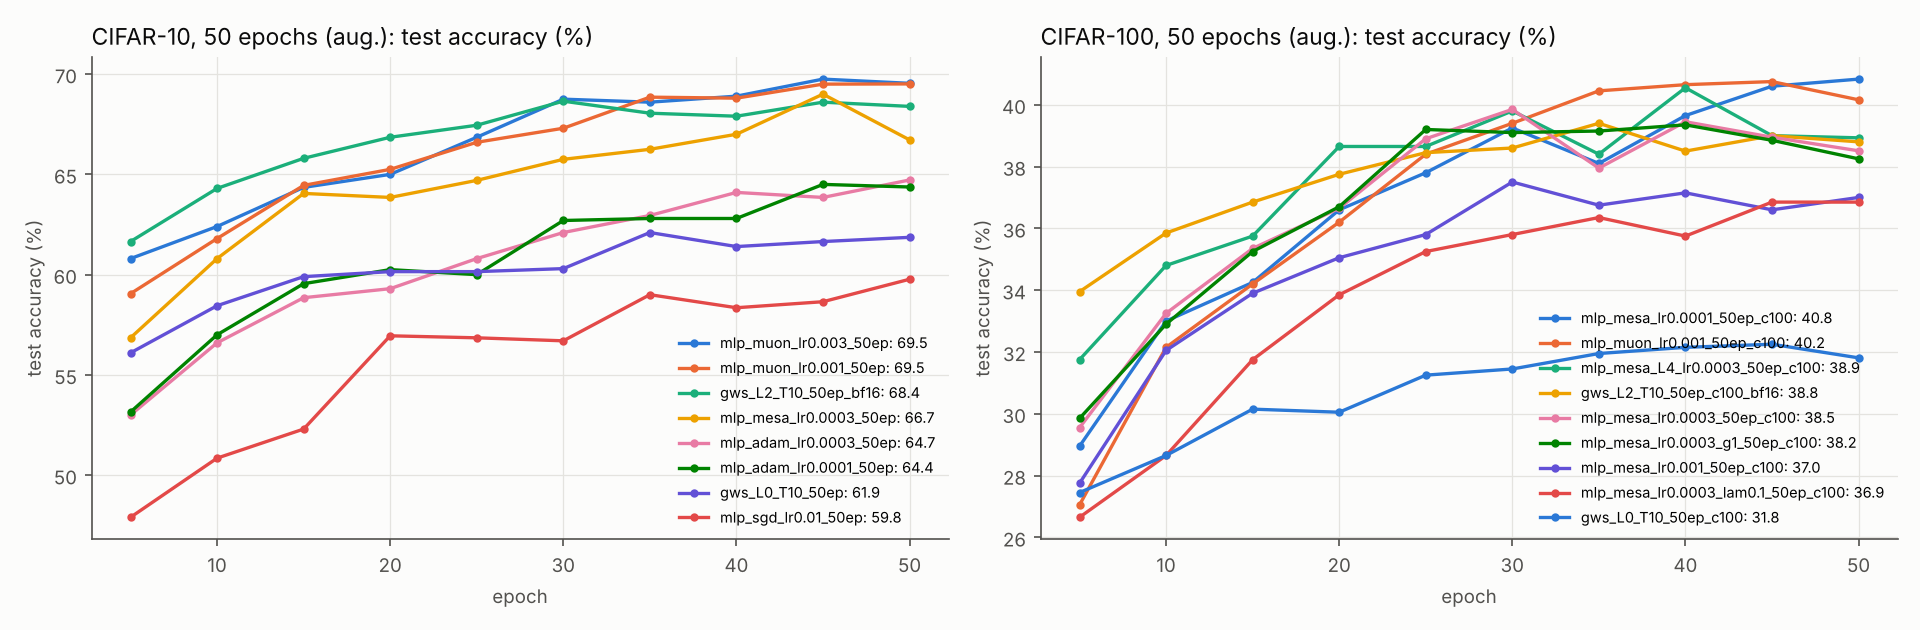
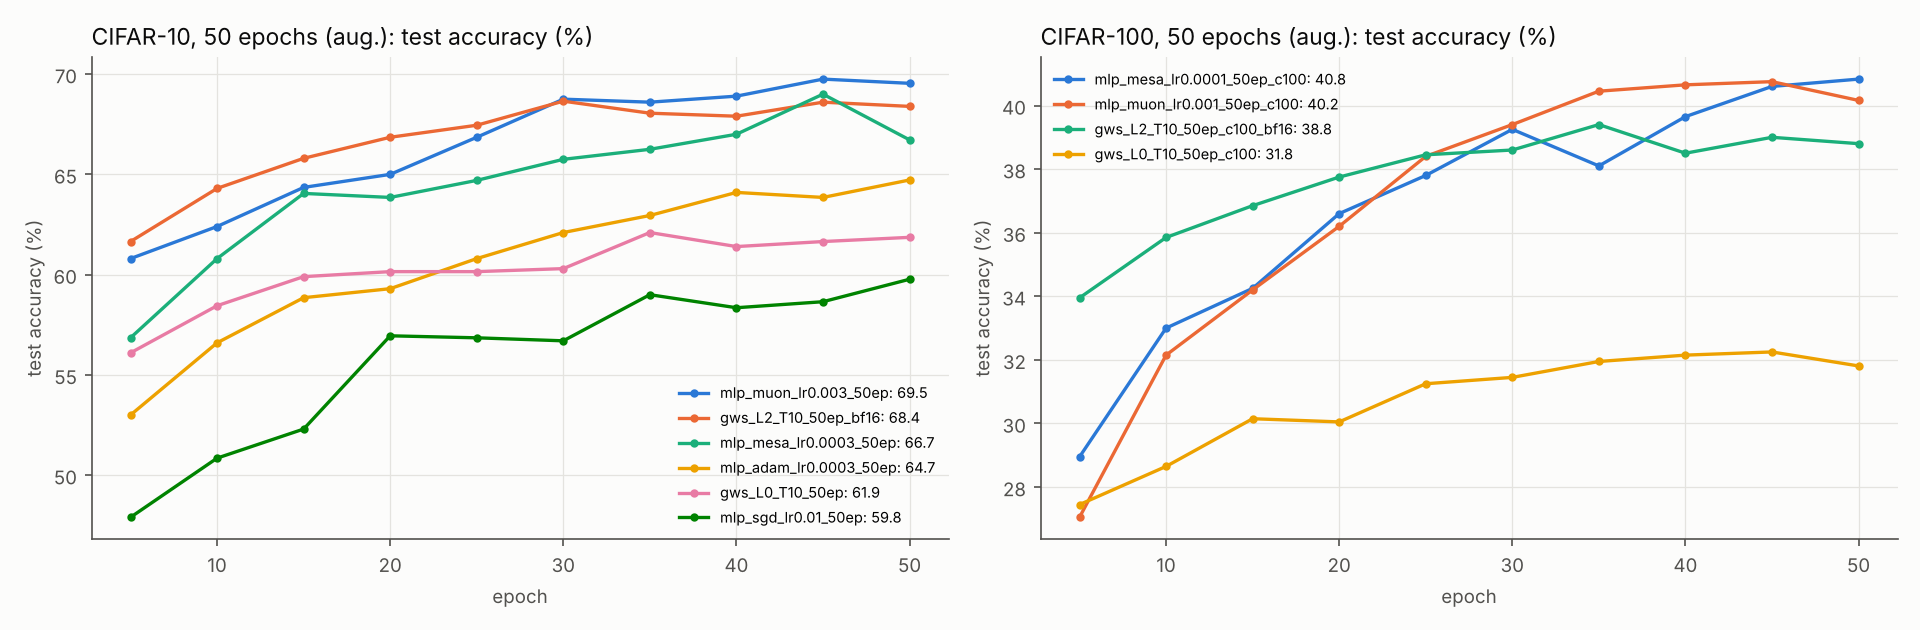
Report: final third-round results (tau = 35 grid complete, CIFAR-100 tuning, second Fig. 5 rate, molab ledger)
Claude-Session: https://claude.ai/code/session_01RLNGfWX7myMbpBLDNmpMEp

diff --git a/experiments/plots.py b/experiments/plots.py
@@ -228,6 +228,12 @@ def fig_multi_epoch(runs, out):
   fig, axes = new_fig(6.4 * len(panels), 4.2, ncols=len(panels))
   for ax, (title, keys) in zip(np.atleast_1d(axes), panels):
     best = {k: max(runs[k], key=lambda r: r['final_test_acc']) for k in keys}   # gws_L0_T10_50ep: eta 1 and 0.003 runs
+    method = lambda k: '_'.join(k.split('_')[:2])          # mlp_mesa, mlp_muon, gws_L2, ...: one curve per method
+    top = {}
+    for k in keys:
+      if method(k) not in top or best[k]['final_test_acc'] > best[top[method(k)]]['final_test_acc']:
+        top[method(k)] = k
+    keys = list(top.values())                              # tuning runs: docs/REPRODUCTION.md tables
     for c, k in zip(SERIES * 2, sorted(keys, key=lambda k: -best[k]['final_test_acc'])):
       r = best[k]
       spe = 781

diff --git a/docs/REPRODUCTION.md b/docs/REPRODUCTION.md
@@ -24,17 +24,17 @@ Budget: 12 GPU-hours on Colab (L4 and A100-40GB) plus a 4-core CPU; 11.87 hours 
 | 8 | Single pass on CIFAR-10: GWS 59.4 ± 0.4, RBF 58.8 ± 0.2, gauge 58.4 ± 0.4; all above Muon, Adam, SGD, Mesa, Delta (Fig. 2 right, App. F.2) | Reproduced: 59.41 ± 0.22, 59.10 ± 0.62, 58.62 ± 0.44; best baseline Muon 57.41 ± 0.52 | §4 |
 | 9 | Kernel ridge regression (~58.5) and kNN (~35.5) on pixels (Fig. 2 right) | Reproduced (58.55, 35.64); GWS is only 0.9 points above exact kernel ridge regression | §6 |
 | 10 | Teacher-student: GWS far below the parametric softmax; MLP student best (Fig. 3) | Reproduced at the paper's endpoint (200k steps): MLP 1.81e-4 < GWS 1.99e-4 < parametric softmax 1.95e-3 (paper ~1.7e-4 / ~2.6e-4 / ~4e-3). Nuance: the parametric softmax is the best student up to ~80k steps (1.9e-4), then degrades without a learning-rate schedule | §7.3 |
-| 11 | 50 epochs: GWS and RBF beat Adam/AdamW/RMSprop/SGD, below Muon; Mesa best on CIFAR-100 (Fig. 2 left) | Partly. Baselines reproduce (CIFAR-10: Muon 69.5, Mesa 66.7, Adam 64.7, SGD 59.8; CIFAR-100: Muon 40.2). GWS at L = 0 (61.9) beats SGD only; L = 2 at 50 epochs needs about 154 GB, but at equal 10 epochs GWS L = 2 (65.1) beats Muon (62.2) and Adam (56.9). Not reproduced: Mesa (38.5) is 1.7 points below Muon on CIFAR-100 at one setting | §7.2, §7.4 |
+| 11 | 50 epochs: GWS and RBF beat Adam/AdamW/RMSprop/SGD, below Muon; Mesa best on CIFAR-100 (Fig. 2 left) | Reproduced for GWS and Mesa. CIFAR-10: GWS at the paper's depth (L = 2, bf16 tables) reaches 68.39%, above Adam (64.7), Mesa (66.7) and SGD (59.8), below Muon (69.5). CIFAR-100: GWS L = 2 38.80% (paper ~39.1); after tuning on the paper's grid, Mesa 40.83% > Muon 40.16% (one seed, margin 0.7 points). Not run: RBF at L = 2 for 50 epochs (the bf16 path does not support RBF distances), AdamW and RMSprop at 50 epochs | §7.4 |
 | 12 | Training loss falls much faster for GWS and RBF (Fig. 2 middle) | Reproduced for L = 2 (online loss 0.75 after 10 epochs; Muon 1.12, Adam 1.31) and in one pass (1.20 against Muon 1.26) | §7.4, figure |
 | 13 | Depth helps up to 2 hidden layers; temperature effect is non-monotonic (Fig. 4 left) | Reproduced. Depth: one pass 53.5 / 58.5 / 59.4, 10 epochs 58.6 / 63.8 / 65.1 for L = 0 / 1 / 2. Temperature (L = 0, 10 epochs): 53.5 / 58.6 / 51.3 for T = 3 / 10 / 30 | §5.1, §7.4 |
 | 14 | Linearizing exp after training causes a large drop (Fig. 4 right) | Reproduced: 61.9 → 15.9 (50 epochs, L = 0); 21-24% at every depth after 10 epochs | §7.2, §7.4 |
 | 15 | The parametric softmax overfits with a widening gap; GWS does not (Fig. 5) | Reproduced at 1/10 of the data with the paper's ratios (keys = GWS database size, 2,000 vs 50 epochs): the parametric model's test accuracy peaks at 43.3% (12.5% of training) and falls to 39.8% while its train accuracy rises to 93%; GWS ends at its best, 49.3%. Full scale, 50 epochs: GWS 61.9 vs 49.1. As in the paper's own figure, GWS also has a large final train-test gap; the claim holds in the sense that its test accuracy does not fall. Learned weights make the parametric model diverge (as the paper reports) | §7.7 |
 | 16 | ViT with GWS FFNs beats the parametric ViT after one epoch: 54.4 vs 48.4 (Sec. 5) | Reproduced: 55.24 at the first setting and 58.41 at the best of four (all four 52.5-58.4) vs 49.62 for the best standard ViT; needed an exact two-call FlashAttention form because PyTorch's fused attention backward slows 50 times at 2^21 keys | §5.3 |
-| 17 | The hybrid layer keeps accuracy with sublinear growth (Fig. 6) | Reproduced: capacities within 4 points of the paper at every τ; accuracy within 1.2 points for τ ≥ 50 with the notebook setting (two seeds at τ = 50: 56.2, 56.5). At τ = 35 the notebook setting fails (49.5, 44.3), but the paper's per-τ tuning grid gives 58.25% at 89.2% of the rows (paper ~58.6% at ~88%) | §5.2 |
+| 17 | The hybrid layer keeps accuracy with sublinear growth (Fig. 6) | Reproduced: capacities within 4 points of the paper at every τ; accuracy within 1.2 points for τ ≥ 50 with the notebook setting (two seeds at τ = 50: 56.2, 56.5). At τ = 35 the notebook setting fails (49.5, 44.3), but the paper's per-τ tuning grid (27 settings) gives 58.29% at 89.0% of the rows (paper ~58.6% at ~88%) | §5.2 |
 | 18 | DeltaNet decay improves a 10-layer MLP over 2,000 epochs: 74% vs 67% (App. E.3.1) | Reproduced: λ = 1e-5 reaches 74.0% (final 73.7%) against 68.3% for plain SGD; all five decay rates of the paper's figure match it within about 1-2 points in test and train accuracy | §7.8 |
 | 19 | Article: plateau grows with N; growing RBF and wide Cos-Bochner shorten it "drastically"; Cos-Bochner improves with width, matching growing RBF; GeGLU has a lower ceiling | Reproduced (minimal version, 2-layer transformer): the plateau grows 4-7 times for 4 times more individuals; the growing RBF layer (η = 10) reaches 90% of the facts 3.8 times sooner than GeGLU-4096 and ends at 99.7% against 82-92% for GeGLU; Cos-Bochner improves monotonically with width (66% → 99% final, escape 5,500 → 2,500 steps) and matches the RBF layer at width 65,536. The onset of learning moves 35-45% earlier, so "drastic" applies to the time to knowledge more than to the onset | §7.5 |
 | 20 | Article: fine-tuning on new individuals makes FFNs forget; "in the fine-tuning setting, the RBF, and also the Cos Bochner, seem to do better than the GeGLU"; RCDL layers "can 'unforget' without replay" (no numbers given) | Reproduced (qualitative, as stated): all variants forget (old facts 99.6% → 16-30%); after 4,000 steps RBF and Cos-Bochner keep 2.5 and 1.9 times as many old facts as GeGLU (38.4% and 29.9% against 15.5%); only the growing RBF layer recovers old facts without replay (30.1% after 250 steps → 38.4% after 4,000). The recovery is small | §7.5 |
-| 21 | Article: RCDL matches but does not beat strong baselines, at much higher cost | Supported for multi-epoch training (400 times the memory, 7.6 points below Muon at L = 0). In one pass GWS is 2 points above Muon at 10 times the memory | §7.6 |
+| 21 | Article: RCDL matches but does not beat strong baselines, at much higher cost | Supported. Multi-epoch: at L = 0, 7.6 points below Muon with 400 times the memory; at the paper's depth (L = 2), 1.1 points below Muon (68.4 vs 69.5) with 77 GB of stored rows in bf16 against 75 MB of MLP weights (about 1,000 times). In one pass GWS is 2 points above Muon at 10 times the memory | §7.6 |
 
 ## 1. How to run
 
@@ -165,14 +165,17 @@ The capacities match the paper within 4 points at every τ, so the growth rule i
 
 | T, β \ Adam rate | 3e-4 | 1e-3 | 3e-3 |
 |---|---|---|---|
-| T = 5, β = 30 | **58.25** (89.2% of rows) | 49.47 / 44.32 (notebook setting, seeds 1 / 2) | 25.60 |
+| T = 5, β = 60 | **58.29** (89.0% of rows) | 57.05 (89.9%) | 46.99 |
+| T = 5, β = 30 | 58.25 (89.2%) | 49.47 / 44.32 (notebook setting, seeds 1 / 2) | 25.60 |
 | T = 5, β = 10 | 55.60 | 53.73 | 23.58 |
+| T = 10, β = 60 | 55.39 (88.7%) | 53.83 | 50.95 |
 | T = 10, β = 30 | 54.73 (88.7%) | 53.76 | 50.85 |
 | T = 10, β = 10 | 53.29 | 52.86 | 12.17 |
+| T = 1, β = 60 | 18.44 | 20.95 | 20.45 |
 | T = 1, β = 30 | 21.10 | 21.76 | 18.24 |
 | T = 1, β = 10 | 28.39 | 25.85 | 19.79 |
 
-With the paper's tuning, τ = 35 reaches **58.25% at 89.2% of the rows**, against the paper's ~58.6% at ~88%. The Adam rate of the trained keys, values and weights decides the result: at T = 5, β = 30, the rate 3e-4 gives 58.25% and the notebook's 1e-3 gives 44-49%. T = 1 fails at every rate (training loss 11-43). The β = 60 row ran on molab after this table was written (see the results files).
+With the paper's full tuning grid (27 settings, 26 run here plus the notebook setting from above), τ = 35 reaches **58.29% at 89.0% of the rows** (T = 5, β = 60, Adam 3e-4), against the paper's ~58.6% at ~88%. Two settings are within 0.04 points of each other (β = 30 and 60 at T = 5, Adam 3e-4). The Adam rate of the trained keys, values and weights decides the result: at T = 5, β = 30, the rate 3e-4 gives 58.25% and the notebook's 1e-3 gives 44-49%. T = 1 fails at every rate (training loss 11-43). One seed per setting, so the best of 27 is an optimistic estimate, as is the paper's.
 
 
 ### 5.3 ViT with growing FFN layers (paper Sec. 5, App. E.9)
@@ -299,12 +302,18 @@ CIFAR-100, 50 epochs (second A100 session, TF32; one setting per method):
 
 | Model | Test acc (%) | Paper (Fig. 2 left, CIFAR-100 panel, read off plot) |
 |---|---|---|
-| MLP + Muon, lr 1e-3 | **40.16** | ~39.2 |
-| MLP + Mesa, lr 3e-4 | 38.51 | ~40.4 (best in the paper) |
+| MLP + Muon, lr 1e-3 | 40.16 | ~39.2 |
+| MLP + Muon, lr 3e-3 (third round) | 38.94 | |
+| MLP + Mesa, lr 3e-4 (γ = 0.99, λ = 0.01) | 38.51 | ~40.4 (best in the paper) |
+| MLP + Mesa, lr 1e-4 (third round) | **40.83** | |
+| MLP + Mesa, lr 1e-3 (third round) | 37.00 | |
+| MLP + Mesa, lr 3e-4, γ = 1 (third round) | 38.25 | |
+| MLP + Mesa, lr 3e-4, λ = 0.1 (third round) | 36.85 | |
+| MLP + Mesa, lr 3e-4, L = 4 (third round) | 38.93 | |
 | GWS, L = 0, T = 10 | 31.81 (linearized: 2.92) | ~39.1 for L = 2 |
 | GWS, L = 2, T = 10 (bf16 tables, third round) | 38.80 (linearized: 3.20) | ~39.1 |
 
-The paper's claim that Mesa is best on CIFAR-100 does not hold at these settings: Muon is 1.65 points ahead. The paper tuned Mesa over learning rate, γ and λ; this run uses one setting.
+With one Mesa setting (second round), Muon was 1.65 points ahead. The third round tuned both on the paper's grids (Mesa: 5 more settings over the rate, γ, λ and depth; Muon: one more rate, molab GPU): the best Mesa (Adam 1e-4, 40.83%) is then 0.67 points above the best Muon (40.16%), so the paper's ordering on CIFAR-100 holds after tuning. One seed per setting, and the margin is small: the paper reports 40.4 against 39.2.
 
 Findings:
 - The Muon, Adam, Mesa and SGD baselines reproduce the paper's CIFAR-10 values (69.5, 64.7, 66.7 and 59.8% against about 69.5, 65, 67.8 and 61).
@@ -442,7 +451,7 @@ Findings:
 
   At 50 epochs the parametric model is still underfitting (train 52%) and its test accuracy is still rising; the gap is 3 points. The paper's widening gap appears after much longer training (2,000 epochs, 40 times this run, about 22 A100-hours at this table size). GWS is 12.8 points ahead on test accuracy and fits much faster, as claimed; its own gap (20 points) is larger, as is the gap in the paper's own figure (about 26 points).
 
-**Fig. 5 with the paper's ratios at 1/10 of the data (third round, `overfit_fig5_scaled.json`).** The paper's full-scale parametric model (2.56M trained keys of width 3,072) needs about 126 GB for parameters, gradients and Adam state. This version keeps the paper's two ratios on the first 5,000 training images: the parametric softmax has as many trained keys as the GWS database holds after 50 epochs (249,664, about 50 per image, as in the paper), and it trains for 2,000 epochs against 50 for GWS. Plain softmax (fixed equal weights), T = 1, Adam 3e-3 (the low end of the paper's rate grid), batch 64, augmentation. Train accuracy on 2,000 non-augmented training images, test accuracy on 2,000 test images (final row: all 10,000). Colab G4, 97 minutes.
+**Fig. 5 with the paper's ratios at 1/10 of the data (third round, `overfit_fig5_scaled.json`).** The paper's full-scale parametric model (2.56M trained keys of width 3,072) needs about 126 GB for parameters, gradients and Adam state. This version keeps the paper's two ratios on the first 5,000 training images: the parametric softmax has as many trained keys as the GWS database holds after 50 epochs (249,664, about 50 per image, as in the paper), and it trains for 2,000 epochs against 50 for GWS. Plain softmax (fixed equal weights), T = 1, Adam 3e-3 and 1e-2 (the two lowest rates of the paper's grid), batch 64, augmentation. Train accuracy on 2,000 non-augmented training images, test accuracy on 2,000 test images (final row: all 10,000). Colab G4, 97 minutes.
 
 | Epoch (parametric) | 25 | 50 | 100 | 250 | 500 | 1,000 | 1,500 | 2,000 |
 |---|---|---|---|---|---|---|---|---|
@@ -453,7 +462,7 @@ Findings:
 |---|---|---|---|---|---|---|
 | GWS: test / train acc (%) | 42.8 / 71.7 | 45.2 / 83.5 | 47.3 / 91.6 | 48.4 / 95.0 | 48.9 / 97.0 | **49.3** / 98.2 |
 
-  At equal training progress (x axis of the paper's figure) the parametric model's test accuracy peaks at 12.5% of training (epoch 250, 43.3%) and then falls to 39.8%, while its train accuracy keeps rising to 93% and its test loss rises 2.7 times from its minimum. GWS ends at its best test accuracy (49.3%), 6 points above the parametric model's peak and 9.5 points above its end. This is the shape of the paper's Fig. 5 (parametric: peak ~55.5%, end ~49%; GWS: rising to ~63%), at lower absolute accuracy because of the 10 times smaller training set. The GWS test loss is lowest at epoch 25 (1.579) and rises slightly to 1.629 at epoch 50, so GWS is not entirely free of overfitting in the loss.
+  At equal training progress (x axis of the paper's figure) the parametric model's test accuracy peaks at 12.5% of training (epoch 250, 43.3%) and then falls to 39.8%, while its train accuracy keeps rising to 93% and its test loss rises 2.7 times from its minimum. GWS ends at its best test accuracy (49.3%), 6 points above the parametric model's peak and 9.5 points above its end. This is the shape of the paper's Fig. 5 (parametric: peak ~55.5%, end ~49%; GWS: rising to ~63%), at lower absolute accuracy because of the 10 times smaller training set. The GWS test loss is lowest at epoch 25 (1.579) and rises slightly to 1.629 at epoch 50, so GWS is not entirely free of overfitting in the loss. A second parametric run with Adam 1e-2 (molab GPU, 2.8 hours on a shared GPU) shows the same shape: test accuracy peaks at 40.7% at epoch 125 and falls to 37.7%, train accuracy rises to 84.2%, and the test loss rises from 1.73 to 5.73.
 
 ### 7.8 SGD with DeltaNet-like decay, 10-block MLP, 2,000 epochs (paper App. E.3.1, claim 18)
 
@@ -556,7 +565,7 @@ Each direction states what it tests, the evidence from this reproduction that mo
 | a2 | A100-40GB | 12:34 | 15:04, stopped | 2.50 | rerun of the lost A100 work (at the user's request, beyond the 12-hour target): GWS-ViT, 200k-step teacher-student, CIFAR-100, 50-epoch Mesa and parametric softmax, 10-epoch MLPs, hybrid seed 2 |
 | Subtotal, first two rounds | | | | 14.37 | |
 | g4 | Colab G4 (RTX PRO 6000 Blackwell, 96 GB) | 15:30 | 18:48, stopped | 3.30 (27.15 compute units at 8.90 per hour) | third round, at the user's go-ahead to exceed the target: GWS L = 2 for 50 epochs (CIFAR-10) with the bf16 check, DeltaNet 2,000 epochs (5 decay rates), Fig. 5 at 1/10 scale (GWS and parametric Adam 3e-3), hybrid τ = 35 grid for β = 30 |
-| molab | marimo molab notebook (RTX PRO 6000 Blackwell, 96 GB; no compute units) | 15:40 | running at the time of writing | - | third round: GWS L = 2 for 50 epochs (CIFAR-100), Mesa and Muon tuning on CIFAR-100, hybrid τ = 35 grid for β = 10 and 60, parametric Adam 1e-2 for Fig. 5, facts width and value-rate scans |
+| molab | marimo molab notebook (RTX PRO 6000 Blackwell, 96 GB; no compute units) | 15:40 | 19:18, jobs done | 3.63 (free) | third round: GWS L = 2 for 50 epochs (CIFAR-100), Mesa and Muon tuning on CIFAR-100, hybrid τ = 35 grid for β = 10 and 60, parametric Adam 1e-2 for Fig. 5, facts width and value-rate scans |
 | Total paid GPU time (Colab) | | | | 17.67 | |
 
 The first A100 session ended at about 07:25 without polling (Colab most likely reclaimed it as idle), and the runs after 06:59 were lost. The permission check of this agent first refused a new session; after the user asked to reconnect, a second A100 session reran all of them except the 50-epoch temperature runs at T = 3 and 30 (replaced by the 10-epoch sweep). The second session was polled every 3-4 minutes.
